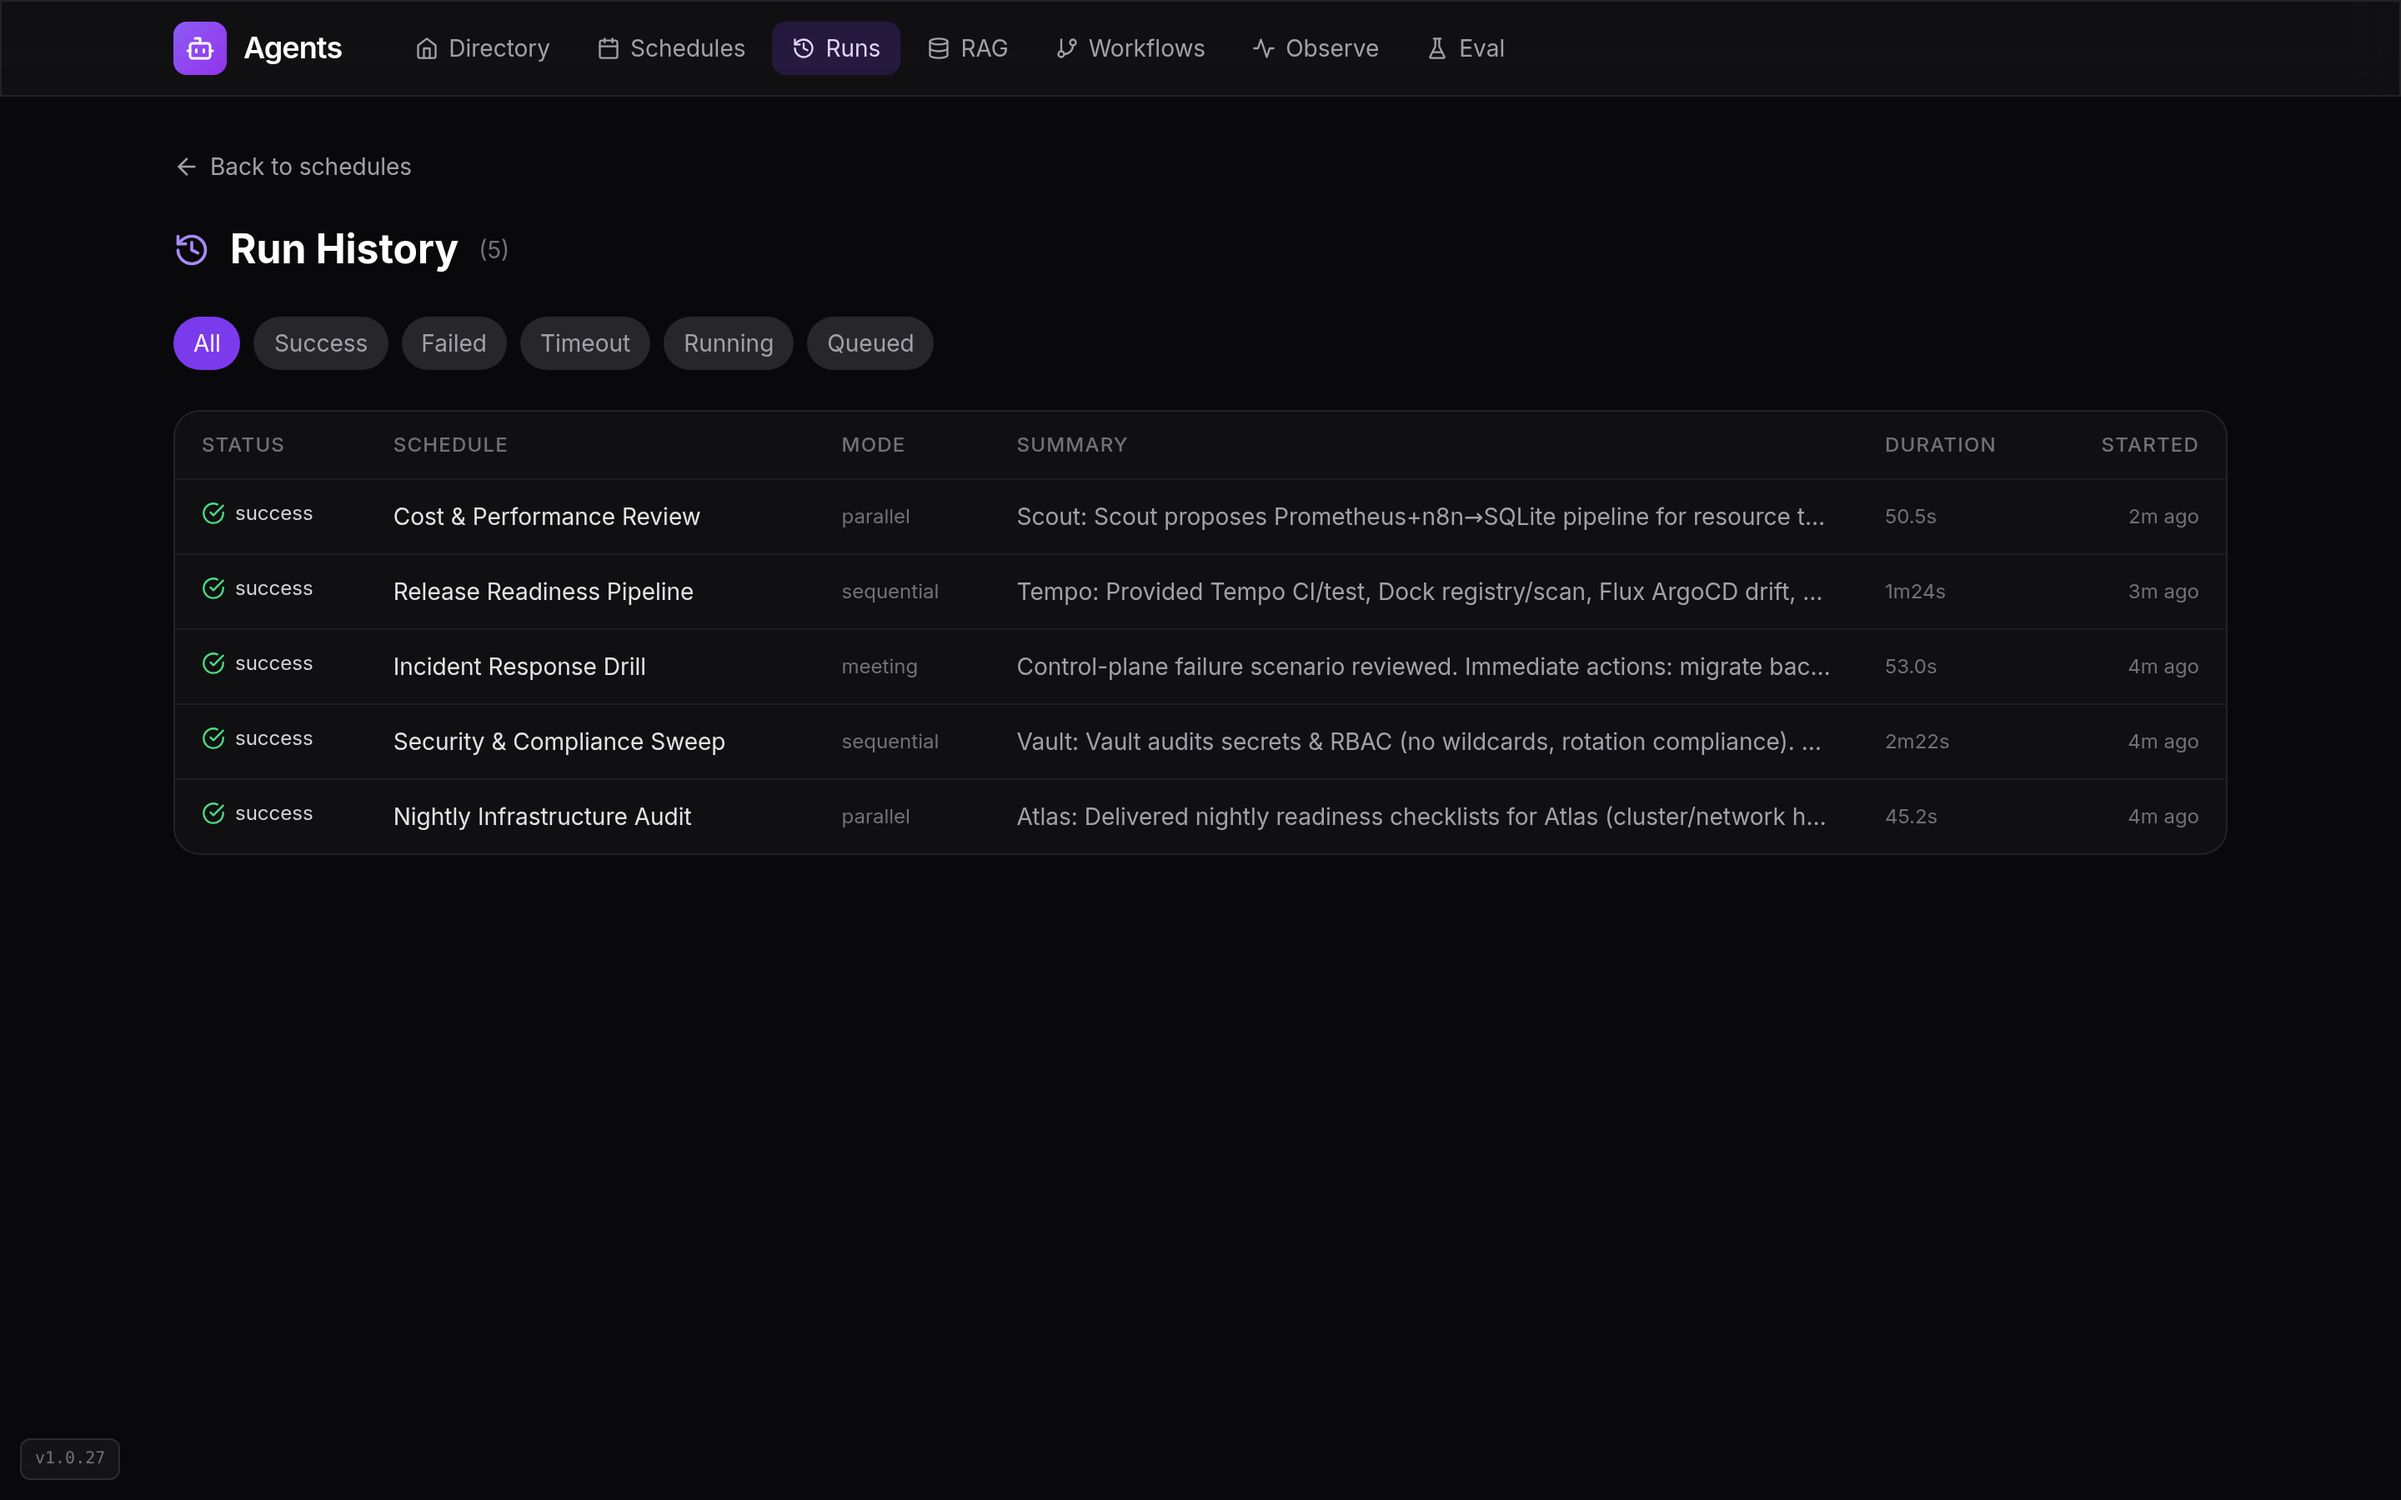
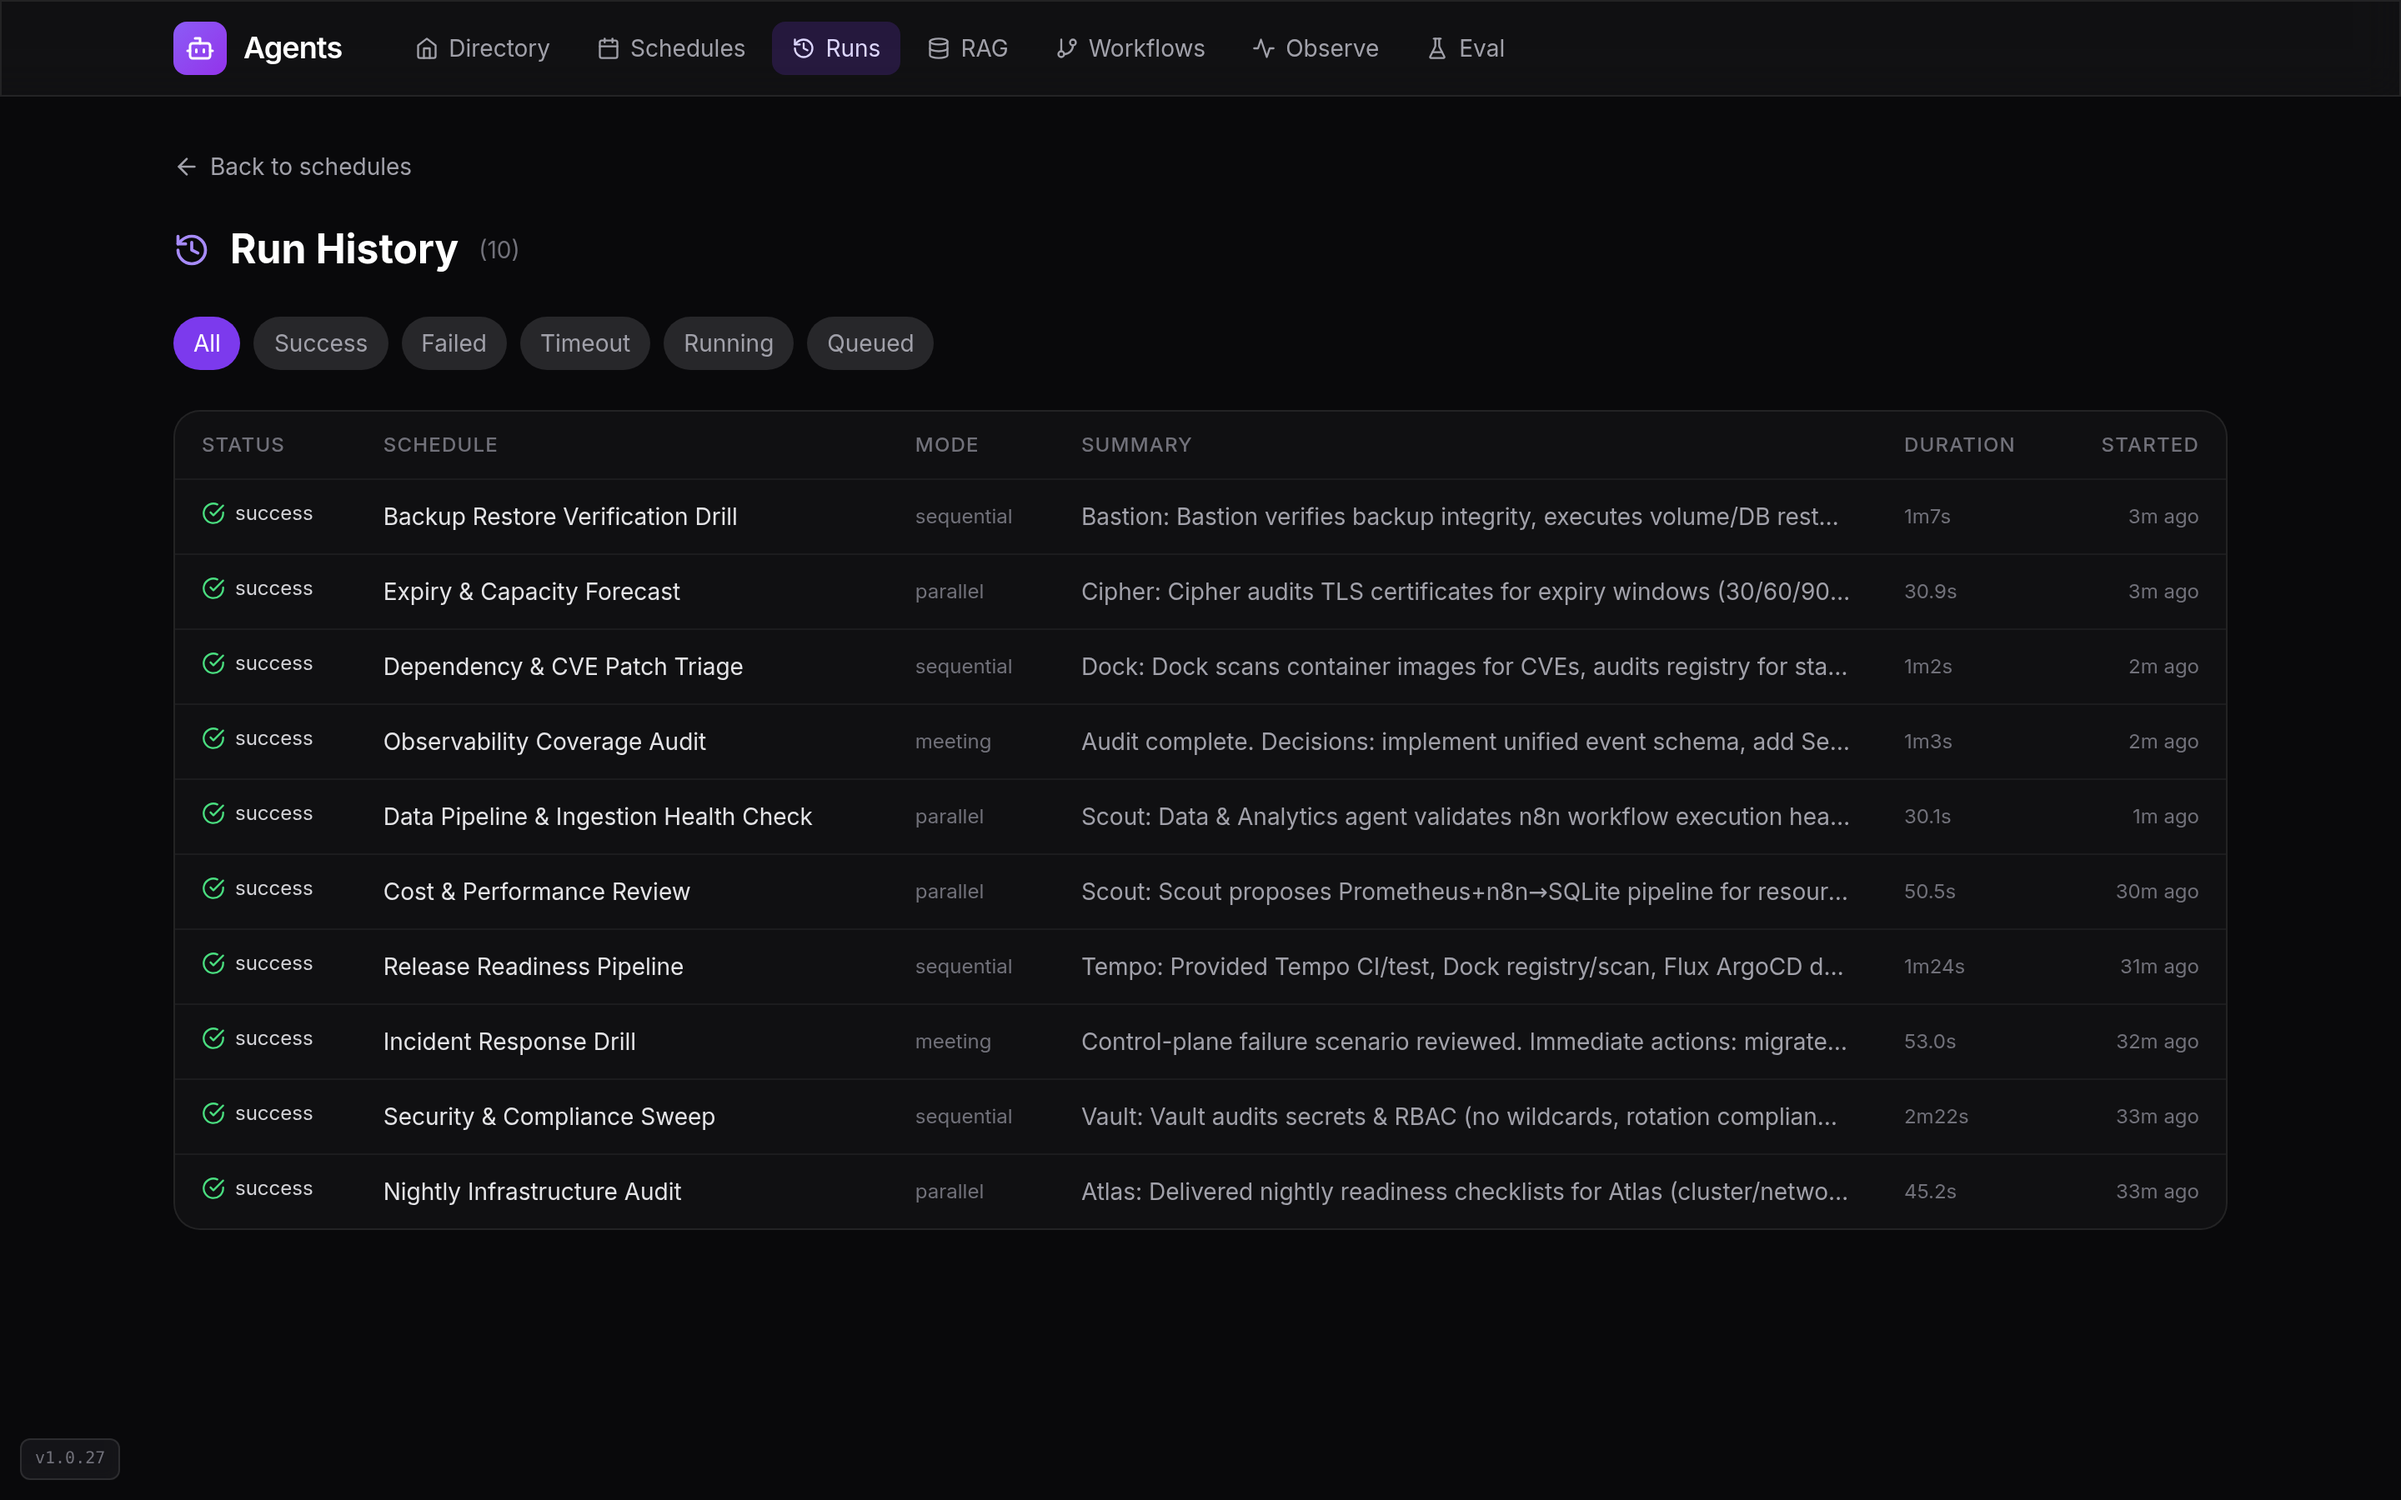
docs: embed screenshots + document 10-schedule production library
Adds a Screenshots section (directory, schedules, runs, workflows) and a
Production Schedule Library table covering all 10 sample workflows across
parallel/sequential/meeting modes.

diff --git a/README.md b/README.md
@@ -47,6 +47,31 @@ It ships with 20 pre-built agent personas covering infrastructure, development, 
 
 ---
 
+## Screenshots
+
+The UI is a dark, glassmorphism dashboard.
+
+### Agent Directory
+![Agent Directory](docs/screenshots/home.png)
+
+The 20-agent roster with search, category filters, and quick-task cards.
+
+### Schedules and Runs
+![Schedules](docs/screenshots/schedules.png)
+
+Ten production-grade scheduled workflows spanning all three composition modes — parallel, sequential, and meeting.
+
+![Run History](docs/screenshots/runs.png)
+
+Run history with status, duration, and per-run summaries.
+
+### LangGraph Workflows
+![Workflows](docs/screenshots/workflows.png)
+
+Route visualization for multi-step agent workflows.
+
+---
+
 ## Architecture
 
 ```
@@ -76,6 +101,27 @@ Express.js (port 3001)
                 claude -p "<system prompt + task>"
                 (Claude Code CLI, parallel / sequential / meeting modes)
 ```
+
+---
+
+## Production Schedule Library
+
+The platform ships with 10 ready-to-use scheduled workflows that exercise all three
+composition modes against real platform operations — the kind a platform team runs on a
+cron cadence. Each bundles a curated set of agents, a rich task prompt, and a realistic schedule.
+
+| Schedule | Mode | Cadence | Agents |
+|----------|------|---------|--------|
+| Nightly Infrastructure Audit | parallel | daily 02:00 | Atlas, Sentinel, Bastion, Patch |
+| Security & Compliance Sweep | sequential | Mon 03:00 | Vault, Cipher, Sentinel, Relay |
+| Incident Response Drill | meeting | Fri 14:00 | Atlas, Mirror, Bastion, Sentinel, Relay |
+| Release Readiness Pipeline | sequential | weekdays 09:00 | Tempo, Dock, Flux, Proxy |
+| Cost & Performance Review | parallel | Mon 08:00 | Scout, Sentinel, Oracle, Ledger |
+| Backup Restore Verification Drill | sequential | Tue 04:17 | Bastion, Mirror, Ledger, Relay |
+| Expiry & Capacity Forecast | parallel | Thu 07:23 | Cipher, Proxy, Atlas, Sentinel |
+| Dependency & CVE Patch Triage | sequential | Wed 05:47 | Dock, Patch, Vault, Flux |
+| Observability Coverage Audit | meeting | Wed 13:47 | Sentinel, Scout, Relay, Oracle |
+| Data Pipeline & Ingestion Health Check | parallel | daily 06:17 | Scout, Oracle, Sentinel, Relay |
 
 ---
 
